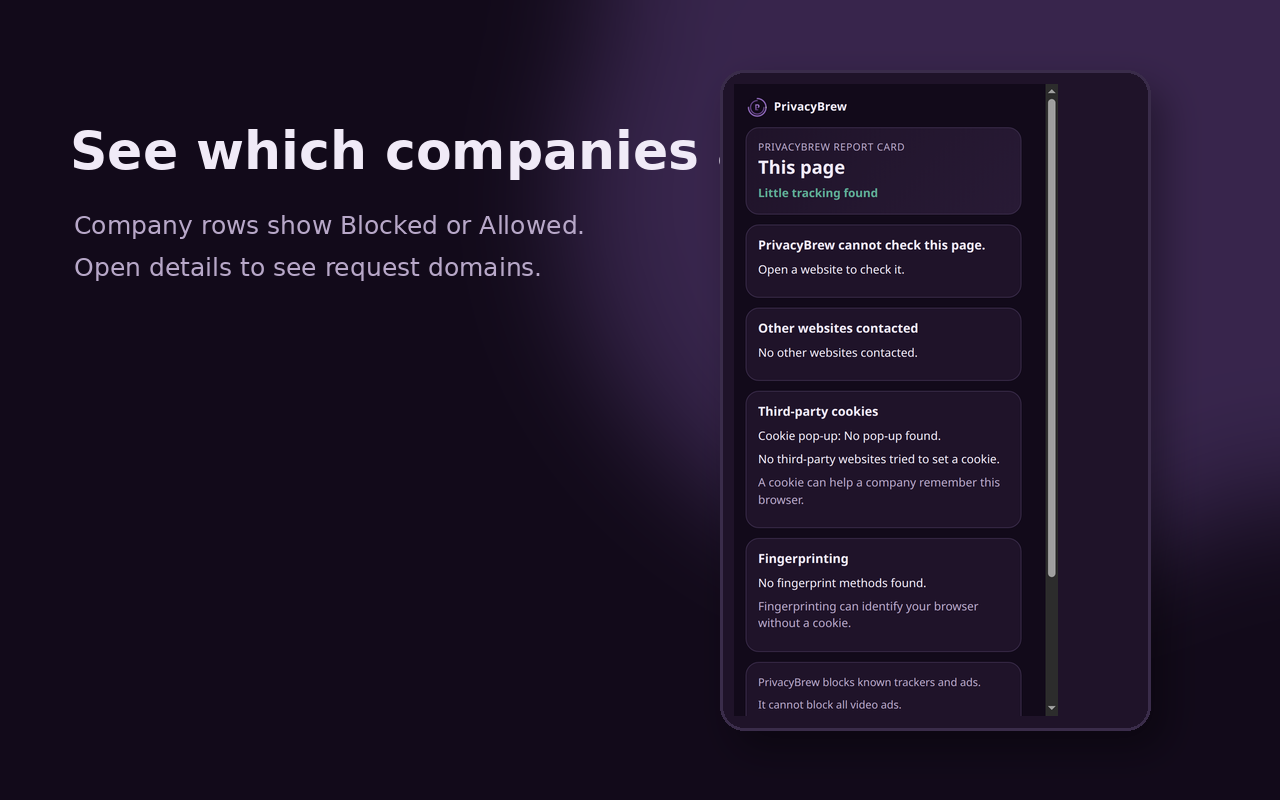
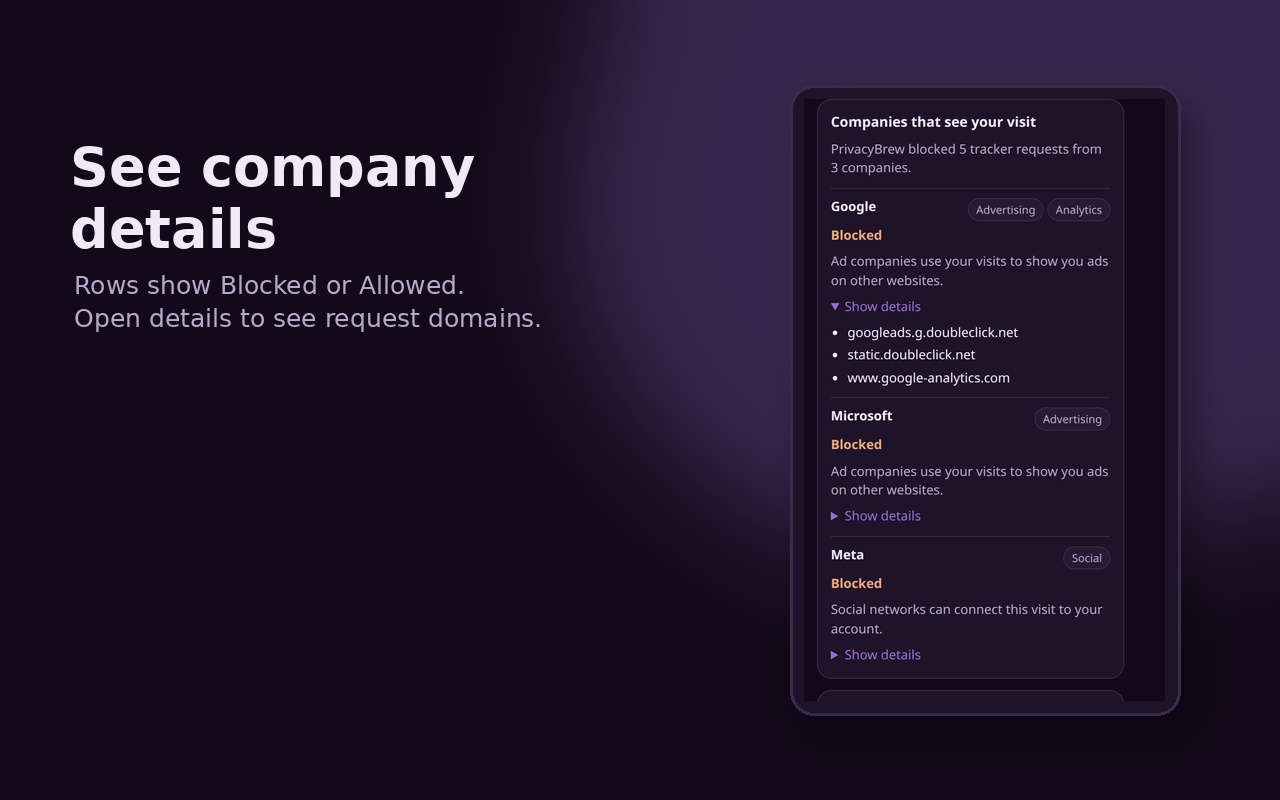
Fix store screenshots with bound popup data

Changed region(s): [[0.0312, 0.0938, 0.9375, 0.9375]]

diff --git a/tools/store_screenshots.py b/tools/store_screenshots.py
@@ -1,25 +1,21 @@
 #!/usr/bin/env python3
-import base64, contextlib, http.server, json, shutil, subprocess, threading, time
+import base64, contextlib, http.server, json, shutil, subprocess, threading, time, textwrap
 from pathlib import Path
 from urllib.parse import urlparse
 import websocket
 from PIL import Image, ImageDraw, ImageFont, ImageFilter
 
 ROOT = Path(__file__).resolve().parents[1]
-EXT = ROOT / 'dist' / 'package-work'
+EXT = ROOT / 'extension'
 OUT = ROOT / 'store' / 'screenshots'
 PROMO = ROOT / 'store' / 'promo-small-440x280.png'
 PORT = 8876
 HOSTS = ['news.example', 'shop.example', 'www.google-analytics.com', 'static.doubleclick.net', 'connect.facebook.net', 'bat.bing.com', 'googleads.g.doubleclick.net']
-BG = '#120a1a'; PANEL = '#1f1329'; PANEL2 = '#281a35'; BORDER = '#3a2c4a'; ACC = '#9b6dd1'; GREEN = '#5fae96'; WARN = '#e8a87c'; TEXT = '#f0eaf7'; DIM = '#b8a8c9'
-
-try:
-    FONT_BIG = ImageFont.truetype('DejaVuSans-Bold.ttf', 52)
-    FONT_MED = ImageFont.truetype('DejaVuSans-Bold.ttf', 34)
-    FONT = ImageFont.truetype('DejaVuSans.ttf', 25)
-    FONT_SMALL = ImageFont.truetype('DejaVuSans.ttf', 20)
-except Exception:
-    FONT_BIG = FONT_MED = FONT = FONT_SMALL = None
+BG = '#120a1a'; PANEL = '#1f1329'; BORDER = '#3a2c4a'; ACC = '#9b6dd1'; GREEN = '#5fae96'; TEXT = '#f0eaf7'; DIM = '#b8a8c9'
+FONT_BIG = ImageFont.truetype('DejaVuSans-Bold.ttf', 54)
+FONT_MED = ImageFont.truetype('DejaVuSans-Bold.ttf', 34)
+FONT = ImageFont.truetype('DejaVuSans.ttf', 25)
+FONT_SMALL = ImageFont.truetype('DejaVuSans.ttf', 20)
 
 class Handler(http.server.BaseHTTPRequestHandler):
     def log_message(self, *args): pass
@@ -30,7 +26,7 @@ class Handler(http.server.BaseHTTPRequestHandler):
         host = self.headers.get('Host','').split(':')[0]
         path = urlparse(self.path).path
         if host == 'news.example':
-            return self.send(f'''<!doctype html><title>News Example</title><style>body{{font:20px system-ui;margin:0;background:#f7f4fb;color:#1f1329}}main{{padding:48px;max-width:900px}}.hero{{font-size:52px;font-weight:800}}.ad{{padding:18px;background:#eee;border:2px dashed #9b6dd1;margin:20px 0}}</style><main><div class="hero">Morning privacy report</div><p>This local fixture loads trackers, ads, and fingerprint scripts for the store images.</p><div class="ad" id="ADbox">Ad space</div><script src="http://www.google-analytics.com:{PORT}/ga.js"></script><script src="http://static.doubleclick.net:{PORT}/ad.js"></script><script src="http://connect.facebook.net:{PORT}/social.js"></script><script src="http://bat.bing.com:{PORT}/bing.js"></script><script src="http://googleads.g.doubleclick.net:{PORT}/pagead/ad.js"></script><script>const c=document.createElement('canvas');c.width=32;c.height=32;c.getContext('2d').getImageData(0,0,32,32);</script><p>Local story list. No real website data is used.</p></main>''')
+            return self.send(f'''<!doctype html><title>News Example</title><style>body{{font:20px system-ui;margin:0;background:#f7f4fb;color:#1f1329}}main{{padding:48px;max-width:900px}}.hero{{font-size:52px;font-weight:800}}.ad{{padding:18px;background:#eee;border:2px dashed #9b6dd1;margin:20px 0}}</style><main><div class="hero">News Example</div><p>This local fixture loads trackers, ads, and fingerprint scripts for store images.</p><div class="ad" id="ADbox">Ad space</div><script src="http://www.google-analytics.com:{PORT}/ga.js"></script><script src="http://static.doubleclick.net:{PORT}/ad.js"></script><script src="http://connect.facebook.net:{PORT}/social.js"></script><script src="http://bat.bing.com:{PORT}/bing.js"></script><script src="http://googleads.g.doubleclick.net:{PORT}/pagead/ad.js"></script><script>const c=document.createElement('canvas');c.width=32;c.height=32;c.getContext('2d').getImageData(0,0,32,32);</script><p>Local story list. No real website data is used.</p></main>''')
         if host == 'shop.example':
             return self.send('''<!doctype html><title>Shop Example</title><style>body{font:22px system-ui;margin:0;background:#f7f4fb;color:#1f1329}main{padding:46px}.product{font-size:48px;font-weight:800}.banner{position:fixed;left:80px;right:80px;bottom:60px;background:#1f1329;color:#f0eaf7;border-radius:20px;padding:28px;box-shadow:0 18px 50px #0008}.banner button{font:20px system-ui;padding:12px 18px;margin-right:12px;border-radius:999px;border:0}.reject{background:#5fae96}.accept{background:#e8a87c}</style><main><div class="product">Shop Example</div><p>A local shopping fixture with a cookie choice banner.</p></main><div id="onetrust-consent-sdk" class="banner"><div id="onetrust-banner-sdk"><strong>Cookie choices</strong><p>We use cookies to improve this local fixture.</p><button class="ot-pc-refuse-all-handler reject" onclick="window.__rejectClicked=true;document.querySelector('.banner').style.display='none'">Reject optional cookies</button><button class="accept" onclick="window.__acceptClicked=true">Accept all</button></div></div>''')
         if path.endswith('.js'):
@@ -61,13 +57,11 @@ def launch():
     profile.mkdir(parents=True)
     args=['google-chrome','--headless=new','--no-first-run','--no-default-browser-check',f'--user-data-dir={profile}','--remote-debugging-port=0','--remote-allow-origins=*','--enable-unsafe-extension-debugging','--window-size=1280,900','--host-resolver-rules='+','.join(f'MAP {h} 127.0.0.1' for h in HOSTS),'about:blank']
     proc=subprocess.Popen(args,stdout=subprocess.DEVNULL,stderr=subprocess.PIPE,text=True)
-    ws=''
-    end=time.time()+20
+    ws=''; end=time.time()+20
     while time.time()<end:
         line=proc.stderr.readline()
         if 'DevTools listening on ' in line: ws=line.split('DevTools listening on ',1)[1].strip(); break
-    cdp=CDP(ws)
-    ext=cdp.call('Extensions.loadUnpacked', {'path': str(EXT)})['id']
+    cdp=CDP(ws); ext=cdp.call('Extensions.loadUnpacked', {'path': str(EXT)})['id']
     sw=None
     for _ in range(50):
         for t in cdp.call('Target.getTargets')['targetInfos']:
@@ -77,114 +71,101 @@ def launch():
         time.sleep(.2)
     return proc, cdp, ext, sw, profile
 
-def attach(cdp, target):
-    return cdp.call('Target.attachToTarget', {'targetId':target, 'flatten':True})['sessionId']
-
-def evalv(cdp, session, expr):
-    return cdp.call('Runtime.evaluate', {'expression':expr, 'awaitPromise':True, 'returnByValue':True}, session).get('result',{}).get('value')
-
+def attach(cdp, target): return cdp.call('Target.attachToTarget', {'targetId':target, 'flatten':True})['sessionId']
+def evalv(cdp, session, expr): return cdp.call('Runtime.evaluate', {'expression':expr, 'awaitPromise':True, 'returnByValue':True}, session).get('result',{}).get('value')
 def wait(cdp, session):
     end=time.time()+15
     while time.time()<end:
         if evalv(cdp, session, 'document.readyState') == 'complete': return
         time.sleep(.2)
 
-def screenshot(cdp, session, path, full=True):
-    data=cdp.call('Page.captureScreenshot', {'format':'png', 'captureBeyondViewport': full}, session)['data']
-    path.write_bytes(base64.b64decode(data)); return Image.open(path).convert('RGBA')
+def shot(cdp, session):
+    data=cdp.call('Page.captureScreenshot', {'format':'png'}, session)['data']
+    tmp = ROOT/'artifacts'/'tmp-shot.png'
+    tmp.write_bytes(base64.b64decode(data))
+    return Image.open(tmp).convert('RGBA')
 
-def create_popup_state(cdp, sw, tab_id, site='news.example', cookie='none'):
-    expr=f'''(async()=>{{
-      await ensureData();
-      const s=PB.Report.emptyState({tab_id}, 'https://{site}/', '{site}'); s.status='ok';
-      PB.Report.addTracker(s, disconnect.find('www.google-analytics.com'), 'www.google-analytics.com', 'blocked', 'https://www.google-analytics.com/analytics.js');
-      PB.Report.addTracker(s, disconnect.find('static.doubleclick.net'), 'static.doubleclick.net', 'blocked', 'https://static.doubleclick.net/ad.js');
-      PB.Report.addTracker(s, disconnect.find('connect.facebook.net'), 'connect.facebook.net', 'blocked', 'https://connect.facebook.net/social.js');
-      PB.Report.addTracker(s, disconnect.find('bat.bing.com'), 'bat.bing.com', 'blocked', 'https://bat.bing.com/bing.js');
-      PB.Report.addAdBlocked(s, 'https://googleads.g.doubleclick.net/pagead/ad.js');
-      PB.Report.addOutsideScript(s, 'https://cdn.news.example/story.js', 'allowed');
-      PB.Report.addFingerprint(s, 'canvas', 'https://{site}/fingerprint.js');
-      PB.Report.addFingerprint(s, 'webgl', 'https://{site}/fingerprint.js');
-      PB.Report.addCookie(s, 'static.doubleclick.net');
-      if ('{cookie}'==='rejected') PB.Report.setCookiePopup(s, 'rejected', {{cmp:'OneTrust'}});
-      await chrome.storage.session.set({{['tab:{tab_id}']:s}});
-      await chrome.action.setBadgeText({{tabId:{tab_id}, text:'3'}});
-    }})()'''
+def open_page(cdp, url, w=900, h=620):
+    target=cdp.call('Target.createTarget', {'url':'about:blank'})['targetId']; sess=attach(cdp,target); cdp.call('Page.enable', sessionId=sess); cdp.call('Emulation.setDeviceMetricsOverride', {'width':w,'height':h,'deviceScaleFactor':1,'mobile':False}, sess); cdp.call('Page.navigate', {'url':url}, sess); wait(cdp,sess); time.sleep(2.5); return sess
+
+def tab_id_for_url(cdp, sw, prefix):
+    return evalv(cdp, sw, f"new Promise(r=>chrome.tabs.query({{}}, tabs=>{{const hit=tabs.filter(t=>(t.url||'').startsWith('{prefix}')).pop(); r(hit&&hit.id);}}))")
+
+def create_state(cdp, sw, tab_id, site='news.example', cookie='none'):
+    expr=f'''(async()=>{{await ensureData(); const s=PB.Report.emptyState({tab_id}, 'https://{site}/', '{site}'); s.status='ok';
+PB.Report.addTracker(s, disconnect.find('www.google-analytics.com'), 'www.google-analytics.com', 'blocked', 'https://www.google-analytics.com/analytics.js');
+PB.Report.addTracker(s, disconnect.find('static.doubleclick.net'), 'static.doubleclick.net', 'blocked', 'https://static.doubleclick.net/ad.js');
+PB.Report.addTracker(s, disconnect.find('connect.facebook.net'), 'connect.facebook.net', 'blocked', 'https://connect.facebook.net/social.js');
+PB.Report.addTracker(s, disconnect.find('bat.bing.com'), 'bat.bing.com', 'allowed', 'https://bat.bing.com/bing.js');
+PB.Report.addAdBlocked(s, 'https://googleads.g.doubleclick.net/pagead/ad.js');
+PB.Report.addOutsideScript(s, 'https://cdn.news.example/story.js', 'allowed');
+PB.Report.addFingerprint(s, 'canvas', 'https://{site}/fingerprint.js'); PB.Report.addFingerprint(s, 'webgl', 'https://{site}/fingerprint.js');
+PB.Report.addCookie(s, 'static.doubleclick.net'); if ('{cookie}'==='rejected') PB.Report.setCookiePopup(s, 'rejected', {{cmp:'OneTrust'}});
+await chrome.storage.session.set({{['tab:{tab_id}']:s}}); await chrome.action.setBadgeText({{tabId:{tab_id}, text:'3'}});}})()'''
     cdp.call('Runtime.evaluate', {'expression': expr, 'awaitPromise': True}, sw)
 
-def popup_image(cdp, ext, sw, scroll=None, open_details=False, cookie='none'):
-    target=cdp.call('Target.createTarget', {'url': f'chrome-extension://{ext}/popup.html'})['targetId']; sess=attach(cdp,target); cdp.call('Page.enable', sessionId=sess); cdp.call('Emulation.setDeviceMetricsOverride', {'width':390,'height':760,'deviceScaleFactor':2,'mobile':False}, sess); wait(cdp,sess)
-    tab_id=evalv(cdp, sw, f"new Promise(r=>chrome.tabs.query({{}}, tabs=>{{ const hits=tabs.filter(t=>(t.url||'').startsWith('chrome-extension://{ext}/popup.html')); r(hits[hits.length-1] && hits[hits.length-1].id); }}))")
-    create_popup_state(cdp, sw, tab_id, cookie=cookie)
-    cdp.call('Page.navigate', {'url': f'chrome-extension://{ext}/popup.html'}, sess); wait(cdp,sess); time.sleep(.6)
-    if open_details:
+def popup(cdp, ext, sw, tab_id, scroll=None, details=False, crop_top=False):
+    target=cdp.call('Target.createTarget', {'url': f'chrome-extension://{ext}/popup.html?tabId={tab_id}'})['targetId']; sess=attach(cdp,target); cdp.call('Page.enable', sessionId=sess); cdp.call('Emulation.setDeviceMetricsOverride', {'width':390,'height':650,'deviceScaleFactor':2,'mobile':False}, sess); wait(cdp,sess); time.sleep(.5)
+    cdp.call('Runtime.evaluate', {'expression': "const st=document.createElement('style');st.textContent='::-webkit-scrollbar{display:none} body{scrollbar-width:none}';document.documentElement.appendChild(st);"}, sess)
+    if details:
         cdp.call('Runtime.evaluate', {'expression': "document.querySelector('#trackersCard details') && (document.querySelector('#trackersCard details').open=true); document.querySelector('#trackersCard').scrollIntoView();"}, sess); time.sleep(.2)
     elif scroll:
         cdp.call('Runtime.evaluate', {'expression': f"document.querySelector('{scroll}').scrollIntoView();"}, sess); time.sleep(.2)
-    tmp=ROOT/'artifacts'/'store-popup.png'
-    return screenshot(cdp,sess,tmp,False)
-
-def page_image(cdp, url, path):
-    target=cdp.call('Target.createTarget', {'url':'about:blank'})['targetId']; sess=attach(cdp,target); cdp.call('Page.enable', sessionId=sess); cdp.call('Emulation.setDeviceMetricsOverride', {'width':900,'height':620,'deviceScaleFactor':1,'mobile':False}, sess); cdp.call('Page.navigate', {'url':url}, sess); wait(cdp,sess); time.sleep(3); return screenshot(cdp,sess,path,False)
+    img = shot(cdp,sess)
+    if crop_top:
+        return img.crop((0, 0, img.width, min(img.height, 1225)))
+    return img
 
 def bg():
-    im=Image.new('RGB',(1280,800),BG).convert('RGBA')
-    glow=Image.new('RGBA',(1280,800),(0,0,0,0)); d=ImageDraw.Draw(glow)
-    d.ellipse((520,-220,1450,620), fill=(155,109,209,70)); glow=glow.filter(ImageFilter.GaussianBlur(70))
-    return Image.alpha_composite(im,glow)
+    im=Image.new('RGBA',(1280,800),BG); glow=Image.new('RGBA',(1280,800),(0,0,0,0)); d=ImageDraw.Draw(glow); d.ellipse((520,-220,1450,620), fill=(155,109,209,72)); return Image.alpha_composite(im, glow.filter(ImageFilter.GaussianBlur(70)))
+def draw_wrapped(d, xy, text, font, fill, width, linegap=8):
+    x,y=xy
+    for para in text.split('\n'):
+        line=''
+        for word in para.split():
+            test=(line+' '+word).strip()
+            if d.textbbox((0,0),test,font=font)[2] > width and line:
+                d.text((x,y),line,font=font,fill=fill); y += font.size + linegap; line=word
+            else: line=test
+        if line: d.text((x,y),line,font=font,fill=fill); y += font.size + linegap
+    return y
 
-def text(draw, xy, s, font, fill=TEXT): draw.text(xy,s,font=font,fill=fill)
-def frame(base, img, xy, size):
-    x,y=xy; w,h=size
-    shadow=Image.new('RGBA',base.size,(0,0,0,0)); sd=ImageDraw.Draw(shadow); sd.rounded_rectangle((x+14,y+18,x+w+14,y+h+18),24,fill=(0,0,0,90)); shadow=shadow.filter(ImageFilter.GaussianBlur(18)); base.alpha_composite(shadow)
-    d=ImageDraw.Draw(base); d.rounded_rectangle((x,y,x+w,y+h),24,fill=PANEL,outline=BORDER,width=3)
-    img.thumbnail((w-28,h-28), Image.Resampling.LANCZOS); base.alpha_composite(img,(x+14,y+14))
-
-def make_slide(path, title, lines, popup):
-    im=bg(); d=ImageDraw.Draw(im); text(d,(70,120),title,FONT_BIG); yy=210
-    for l in lines: text(d,(74,yy),l,FONT, DIM); yy+=42
-    frame(im,popup,(720,70),(430,660)); im.convert('RGB').save(path)
-
-def make_cookie_slide(path,before,after,popup):
-    im=bg(); d=ImageDraw.Draw(im); text(d,(70,60),'Cookie pop-up help',FONT_BIG); text(d,(72,122),'PrivacyBrew tries to reject optional cookies.',FONT,DIM)
-    text(d,(120,185),'Before',FONT_MED); text(d,(690,185),'After',FONT_MED)
-    frame(im,before,(70,230),(520,390)); frame(im,after,(670,230),(520,390)); frame(im,popup,(875,165),(290,500)); im.convert('RGB').save(path)
-
-def make_local(path):
-    im=bg(); d=ImageDraw.Draw(im); icon=Image.open(ROOT/'extension/icons/icon-128.png').convert('RGBA').resize((120,120)); im.alpha_composite(icon,(90,90)); text(d,(240,112),'Local by design',FONT_BIG)
-    cards=[('No account','PrivacyBrew does not need a login.'),('No analytics','It does not send usage data to us.'),('No remote code','Rules and scripts ship in the extension.')]
-    y=280
-    for h,b in cards:
-        d.rounded_rectangle((100,y,1180,y+110),24,fill=PANEL,outline=BORDER,width=2); text(d,(140,y+22),h,FONT_MED,ACC); text(d,(140,y+62),b,FONT,DIM); y+=140
+def frame(base,img,xy,size):
+    x,y=xy; w,h=size; sh=Image.new('RGBA',base.size,(0,0,0,0)); sd=ImageDraw.Draw(sh); sd.rounded_rectangle((x+14,y+18,x+w+14,y+h+18),24,fill=(0,0,0,95)); base.alpha_composite(sh.filter(ImageFilter.GaussianBlur(18)))
+    d=ImageDraw.Draw(base); d.rounded_rectangle((x,y,x+w,y+h),24,fill=PANEL,outline=BORDER,width=3); img.thumbnail((w-28,h-28), Image.Resampling.LANCZOS); base.alpha_composite(img,(x+14,y+14))
+def slide(path,title,body,img):
+    im=bg(); d=ImageDraw.Draw(im); draw_wrapped(d,(70,135),title,FONT_BIG,TEXT,620); draw_wrapped(d,(74,270),body,FONT,DIM,610); frame(im,img,(790,85),(390,630)); im.convert('RGB').save(path)
+def cookie_slide(path,before,after,popup_img):
+    popup_img = popup_img.crop((0, 0, popup_img.width, min(popup_img.height, 520)))
+    im=bg(); d=ImageDraw.Draw(im); draw_wrapped(d,(70,48),'Cookie pop-up help',FONT_BIG,TEXT,780); draw_wrapped(d,(72,118),'PrivacyBrew tries to reject optional cookies. It never clicks accept all.',FONT,DIM,900)
+    d.text((135,180),'Before',font=FONT_MED,fill=TEXT); d.text((705,180),'After',font=FONT_MED,fill=TEXT); frame(im,before,(70,225),(500,355)); frame(im,after,(650,225),(500,355)); frame(im,popup_img,(850,575),(300,200)); im.convert('RGB').save(path)
+def local(path):
+    im=bg(); d=ImageDraw.Draw(im); icon=Image.open(ROOT/'extension/icons/icon-128.png').convert('RGBA').resize((120,120)); im.alpha_composite(icon,(90,90)); d.text((240,112),'Local by design',font=FONT_BIG,fill=TEXT)
+    y=270
+    for h,b in [('No account','PrivacyBrew does not need a login.'),('No analytics','It does not send usage data to us.'),('No remote code','Rules and scripts ship in the extension.')]:
+        d.rounded_rectangle((80,y,1200,y+125),24,fill=PANEL,outline=BORDER,width=2); d.text((130,y+24),h,font=FONT_MED,fill=ACC); d.text((130,y+72),b,font=FONT,fill=DIM); y+=145
     im.convert('RGB').save(path)
-
 def promo(path):
-    im=Image.new('RGB',(440,280),BG).convert('RGBA'); d=ImageDraw.Draw(im); d.rounded_rectangle((18,18,422,262),28,fill=PANEL,outline=BORDER,width=2)
-    icon=Image.open(ROOT/'extension/icons/icon-128.png').convert('RGBA').resize((76,76)); im.alpha_composite(icon,(42,52)); text(d,(135,55),'PrivacyBrew',FONT_MED); text(d,(42,150),'Block trackers and ads.',FONT); text(d,(42,190),'See a plain-language report.',FONT_SMALL,DIM); im.convert('RGB').save(path)
+    im=Image.new('RGBA',(440,280),BG); d=ImageDraw.Draw(im); d.rounded_rectangle((18,18,422,262),28,fill=PANEL,outline=BORDER,width=2); icon=Image.open(ROOT/'extension/icons/icon-128.png').convert('RGBA').resize((76,76)); im.alpha_composite(icon,(42,52)); d.text((135,55),'PrivacyBrew',font=FONT_MED,fill=TEXT); d.text((42,150),'Block trackers and ads.',font=FONT,fill=TEXT); d.text((42,190),'See a plain-language report.',font=FONT_SMALL,fill=DIM); im.convert('RGB').save(path)
 
 def main():
-    if not EXT.exists(): subprocess.run(['python3','tools/package.py'], cwd=ROOT, check=True)
-    OUT.mkdir(parents=True, exist_ok=True); (ROOT/'artifacts').mkdir(exist_ok=True)
-    server=start_server(); proc=None
+    OUT.mkdir(parents=True, exist_ok=True); (ROOT/'artifacts').mkdir(exist_ok=True); server=start_server(); proc=None
     try:
         proc,cdp,ext,sw,profile=launch()
-        report=popup_image(cdp,ext,sw)
-        controls=popup_image(cdp,ext,sw,scroll='#controlsCard')
-        companies=popup_image(cdp,ext,sw,open_details=True)
-        before=page_image(cdp,f'http://shop.example:{PORT}/',ROOT/'artifacts'/'store-before.png')
-        # Use fixture page after extension has handled it.
-        after=page_image(cdp,f'http://shop.example:{PORT}/',ROOT/'artifacts'/'store-after.png')
-        popup_cookie=popup_image(cdp,ext,sw,cookie='rejected')
-        make_slide(OUT/'01-report-card.png','See the privacy story',['A plain-language report card for each website.','Trackers, ads, cookies and fingerprinting in one place.'],report)
-        make_slide(OUT/'02-blocking-controls.png','Control each protection',['Block trackers and ads by default.','Send privacy requests to websites.'],controls)
-        make_cookie_slide(OUT/'03-cookie-popups.png',before,after,popup_cookie)
-        make_slide(OUT/'04-companies-detail.png','See which companies appear',['Company rows show Blocked or Allowed.','Open details to see request domains.'],companies)
-        make_local(OUT/'05-local-by-design.png')
-        promo(PROMO)
+        news=open_page(cdp,f'http://news.example:{PORT}/'); news_tab=tab_id_for_url(cdp,sw,'http://news.example'); create_state(cdp,sw,news_tab)
+        report=popup(cdp,ext,sw,news_tab,crop_top=True); controls=popup(cdp,ext,sw,news_tab,scroll='#controlsCard'); companies=popup(cdp,ext,sw,news_tab,details=True)
+        cdp.call('Runtime.evaluate', {'expression':'setCookiePopupHandling(false)', 'awaitPromise':True}, sw)
+        before_s=open_page(cdp,f'http://shop.example:{PORT}/'); before=shot(cdp,before_s)
+        cdp.call('Runtime.evaluate', {'expression':'setCookiePopupHandling(true)', 'awaitPromise':True}, sw)
+        after_s=open_page(cdp,f'http://shop.example:{PORT}/'); time.sleep(1); cdp.call('Runtime.evaluate', {'expression':"const b=document.querySelector('.banner'); if(b) b.style.display='none';"}, after_s); after=shot(cdp,after_s)
+        shop_tab=tab_id_for_url(cdp,sw,'http://shop.example'); create_state(cdp,sw,shop_tab,'shop.example','rejected'); cookie_popup=popup(cdp,ext,sw,shop_tab,scroll='#cookiesCard')
+        slide(OUT/'01-report-card.png','See the privacy story','A plain-language report card for each website.\nTrackers, ads, cookies, and fingerprinting in one place.',report)
+        slide(OUT/'02-blocking-controls.png','Control each protection','Block trackers and ads by default.\nSend privacy requests to websites.',controls)
+        cookie_slide(OUT/'03-cookie-popups.png',before,after,cookie_popup)
+        slide(OUT/'04-companies-detail.png','See company details','Rows show Blocked or Allowed.\nOpen details to see request domains.',companies)
+        local(OUT/'05-local-by-design.png'); promo(PROMO)
     finally:
         if proc:
             with contextlib.suppress(Exception): proc.terminate(); proc.wait(timeout=5)
-        server.shutdown()
-        with contextlib.suppress(Exception): shutil.rmtree(ROOT/'artifacts'/'store-screenshot-profile')
-
+        server.shutdown(); shutil.rmtree(ROOT/'artifacts'/'store-screenshot-profile', ignore_errors=True)
 if __name__=='__main__': main()
